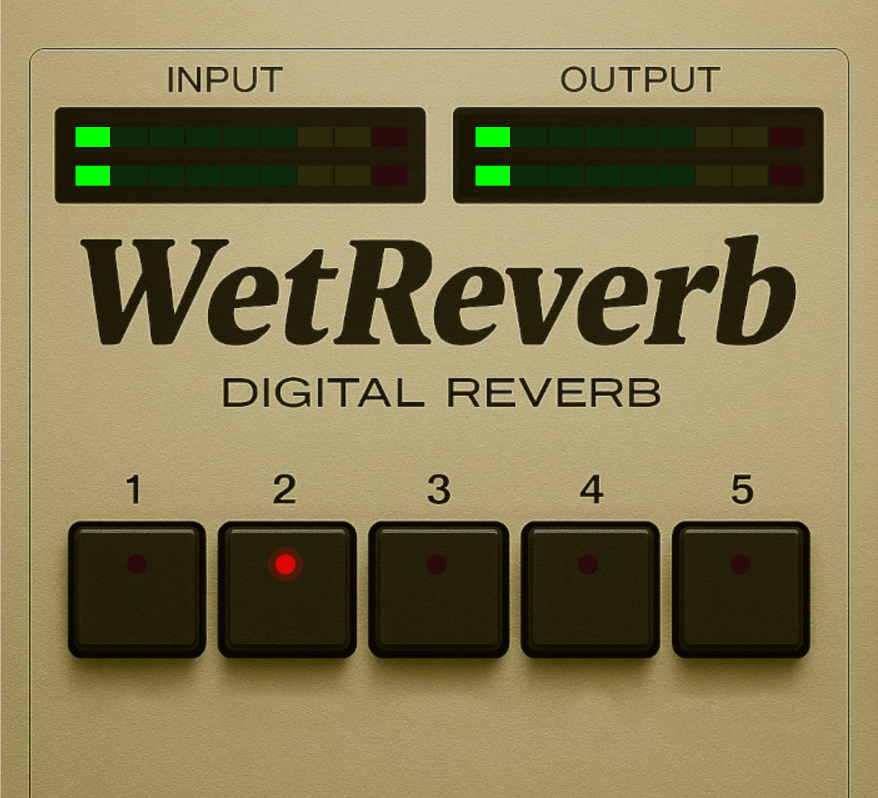
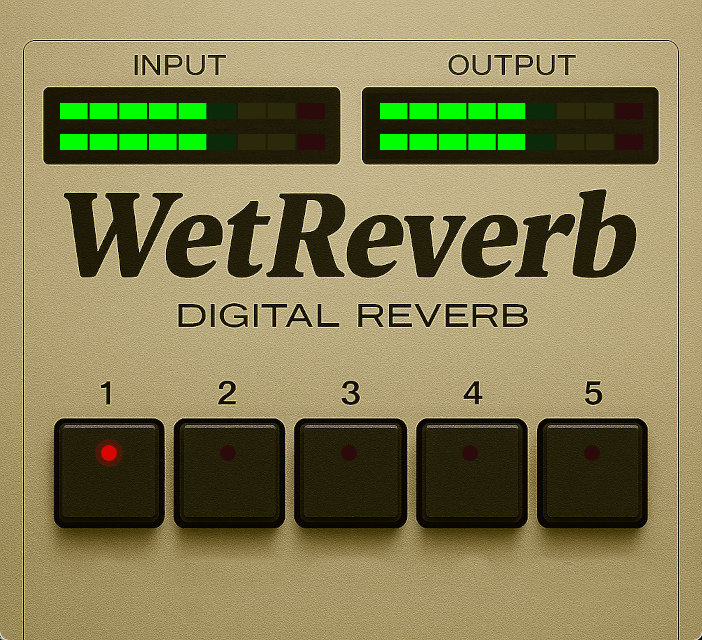
Meters read in dB against the scale, not linearly across the segments
They mapped amplitude LINEARLY, which reads far lower than the signal actually
is: half the strip covered -6 dBFS to 0, so -20 dBFS lit one segment of twelve
and anything below -24 lit none at all. A player reads that as no signal on a
perfectly healthy track.

One segment per equal step in dB now, -48 to +18. Off by default in the view, so
the range has to be declared - it is, in the .uidesc beside every meter.

-6 dBFS   6/12 -> 8/12
-12 dBFS  3/12 -> 7/12
-20 dBFS  1/12 -> 5/12
-30 dBFS  0/12 -> 4/12

Found while photographing WetCompressor, whose panel prints a dB scale it was
contradicting. The other three have no printed scale, so the same map was merely
pessimistic rather than self-contradicting - but it was wrong in all four.

diff --git a/WetReverb/source/customviewcreator.cpp b/WetReverb/source/customviewcreator.cpp
@@ -13,6 +13,8 @@ namespace Yonie {
 static const std::string kAttrNumSegments = "num-segments";
 static const std::string kAttrSegmentGap = "segment-gap";
 static const std::string kAttrHorizontal = "horizontal";
+static const std::string kAttrDbMin = "db-min";
+static const std::string kAttrDbMax = "db-max";
 static const std::string kAttrButtonIndex = "button-index";
 static const std::string kAttrActiveColor = "active-color";
 static const std::string kAttrInactiveColor = "inactive-color";
@@ -54,6 +56,11 @@ bool LEDMeterViewCreator::apply(CView* view, const UIAttributes& attributes,
     bool boolValue;
     if (attributes.getBooleanAttribute(kAttrHorizontal, boolValue))
         meterView->setHorizontal(boolValue);
+
+    double dbLo = 0.0, dbHi = 0.0;
+    if (attributes.getDoubleAttribute(kAttrDbMin, dbLo) &&
+        attributes.getDoubleAttribute(kAttrDbMax, dbHi))
+        meterView->setDbRange(dbLo, dbHi);
     
     return true;
 }
@@ -64,6 +71,8 @@ bool LEDMeterViewCreator::getAttributeNames(StringList& attributeNames) const
     attributeNames.emplace_back(kAttrNumSegments);
     attributeNames.emplace_back(kAttrSegmentGap);
     attributeNames.emplace_back(kAttrHorizontal);
+    attributeNames.emplace_back(kAttrDbMin);
+    attributeNames.emplace_back(kAttrDbMax);
     return true;
 }
 
@@ -76,6 +85,8 @@ IViewCreator::AttrType LEDMeterViewCreator::getAttributeType(const std::string& 
         return kFloatType;
     if (attributeName == kAttrHorizontal)
         return kBooleanType;
+    if (attributeName == kAttrDbMin || attributeName == kAttrDbMax)
+        return kFloatType;
     return kUnknownType;
 }
 

diff --git a/WetReverb/source/ledmeterview.cpp b/WetReverb/source/ledmeterview.cpp
@@ -4,6 +4,8 @@
 
 #include "ledmeterview.h"
 
+#include <cmath>
+
 using namespace VSTGUI;
 
 namespace Yonie {
@@ -18,15 +20,35 @@ LEDMeterView::LEDMeterView(const CRect& size)
 }
 
 //------------------------------------------------------------------------
-void LEDMeterView::draw(CDrawContext* context)
+int LEDMeterView::litSegments() const
 {
-    // Get normalized value (0.0 to 1.0)
-    float level = getValueNormalized();
-    
-    // Calculate how many segments should be lit
-    int litCount = static_cast<int>(level * numSegments + 0.5f);
+    const float level = getValueNormalized();
+
+    int litCount;
+    if (dbScale)
+    {
+        // One segment per equal step in dB between dbLo and dbHi, so the strip
+        // reads the way a meter is expected to read.
+        if (level <= 1e-6f)
+            return 0;
+        const double db = 20.0 * std::log10(static_cast<double>(level));
+        const double step = (dbHi - dbLo) / (numSegments - 1);
+        litCount = static_cast<int>(std::floor((db - dbLo) / step)) + 1;
+    }
+    else
+    {
+        litCount = static_cast<int>(level * numSegments + 0.5f);
+    }
+
     if (litCount > numSegments) litCount = numSegments;
     if (litCount < 0) litCount = 0;
+    return litCount;
+}
+
+//------------------------------------------------------------------------
+void LEDMeterView::draw(CDrawContext* context)
+{
+    const int litCount = litSegments();
     
     // Draw each segment
     for (int i = 0; i < numSegments; i++)

diff --git a/WetReverb/source/ledmeterview.h b/WetReverb/source/ledmeterview.h
@@ -30,6 +30,23 @@ public:
     void setNumSegments(int num) { numSegments = num; }
     void setSegmentGap(VSTGUI::CCoord gap) { segmentGap = gap; }
     void setHorizontal(bool horiz) { isHorizontal = horiz; }
+
+    // Map the incoming value as dB rather than linearly across the segments.
+    //
+    // Linear is what this did, and it makes the meter read far lower than the
+    // signal actually is: half the strip covers -6 dBFS to 0, so -20 dBFS lights
+    // ONE segment of twelve and anything below -24 lights none at all. A player
+    // reads that as "no signal" when the track is perfectly healthy.
+    //
+    // Off by default, so a meter that has not been given a range keeps the old
+    // behaviour.
+    void setDbRange(double lo, double hi) { dbLo = lo; dbHi = hi; dbScale = hi > lo; }
+    bool hasDbRange() const { return dbScale; }
+    double dbMin() const { return dbLo; }
+    double dbMax() const { return dbHi; }
+
+    // Number of segments lit for the current value.
+    int litSegments() const;
     
     // Custom view class name for VSTGUI factory
     CLASS_METHODS(LEDMeterView, CControl)
@@ -42,6 +59,8 @@ protected:
     int numSegments = 9;
     VSTGUI::CCoord segmentGap = 2;
     bool isHorizontal = true;
+    bool dbScale = false;
+    double dbLo = -48.0, dbHi = 18.0;
     
     // Color definitions for 80's LED look
     // Green zone (segments 0-5)
